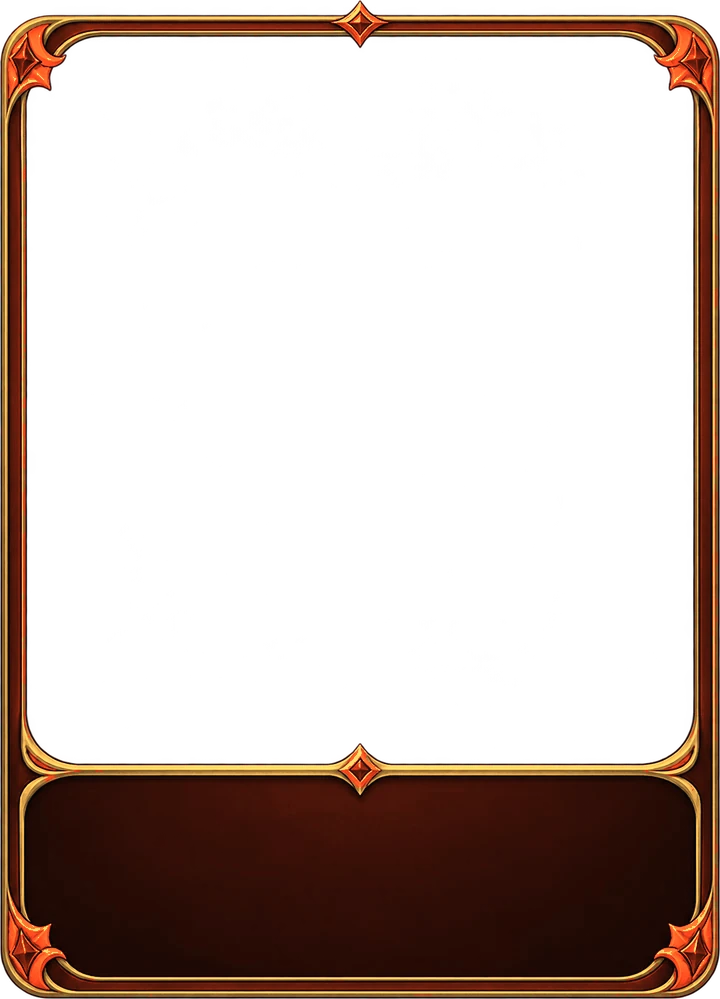
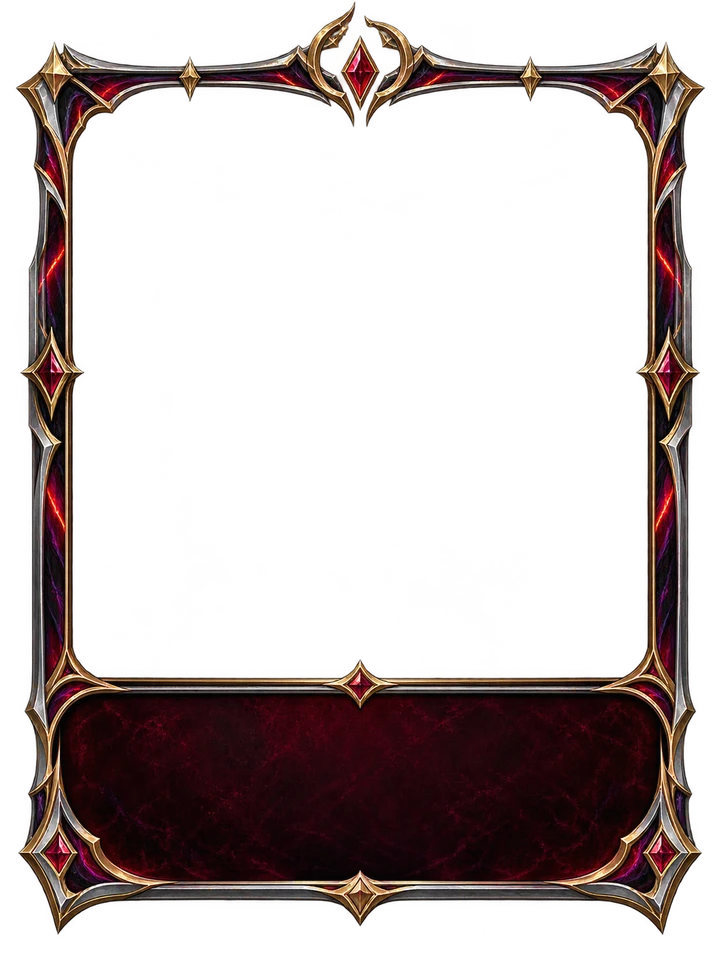
Kánon esemény: saját keret, kristály-villanás és körbefutó fény a bevonuláskor (még rejtve)
Claude-Session: https://claude.ai/code/session_01W9zq3wf11nj4Y1bRb5YWnf

diff --git a/site/index.html b/site/index.html
@@ -1399,8 +1399,26 @@ html{-webkit-text-size-adjust:100%;text-size-adjust:100%;}
 /* Kánon esemény lapok: saját izzó vörös-arany keret, lüktető fény, vörös energiakő */
 .t-action.kanon{--frame:url('art/ui/sm/frame-kanon.webp');}
 .big.t-action.kanon{--frame:url('art/ui/frame-kanon.webp');}
-.card.kanon{box-shadow:0 0 .45em rgba(255,90,30,.7),0 .3em .8em rgba(0,0,0,.5);animation:kanonGlow 2.6s ease-in-out infinite;}
-@keyframes kanonGlow{50%{box-shadow:0 0 1em rgba(255,110,40,.95),0 0 .25em rgba(255,214,130,.9),0 .3em .8em rgba(0,0,0,.5);}}
+/* saját keret (a díszek kilógnak, ezért alakkövető fény, nem doboz-árnyék) */
+.card.framed.kanon{box-shadow:none;background:none;filter:drop-shadow(0 0 .28em rgba(255,30,70,.55)) drop-shadow(0 .2em .35em rgba(0,0,0,.6));}
+.card.framed.big.kanon{animation:kanonGlow 2.8s ease-in-out infinite;}
+@keyframes kanonGlow{50%{filter:drop-shadow(0 0 .6em rgba(255,40,80,.85)) drop-shadow(0 .2em .35em rgba(0,0,0,.6));}}
+.card.framed.kanon .art{left:10.5%;right:10.5%;top:11.6%;height:57.3%;border-radius:calc(var(--cw)*.015);}
+.card.framed.kanon .name{left:12%;right:12%;top:73.2%;height:21.5%;}
+.card.framed.big.kanon .name{top:auto;bottom:31.2%;height:auto;left:10.5%;right:10.5%;}
+.card.framed.big.kanon .txt{font-size:.37em;}
+.card.framed.big.kanon.tl-l .txt{font-size:.33em;}
+.card.framed.big.kanon .ctype{left:10.5%;right:10.5%;top:11.6%;}
+.card.framed.big.kanon .txt{left:11.5%;right:11.5%;top:73.6%;height:20%;}
+.card.framed .kanon-ribbon{display:none;}   /* a keret maga jelzi a típust; a szalag csak a Full Art változaton marad */
+.card.foil.kanon{box-shadow:0 0 .45em rgba(255,40,70,.7),0 .3em .8em rgba(0,0,0,.5);}
+/* kijátszáskor: felvillan a felső kristály, majd vörös fény fut végig a kereten */
+.kanon-crystal{position:absolute;z-index:9;left:50%;top:6.4%;width:20%;aspect-ratio:1;transform:translate(-50%,-50%);border-radius:50%;opacity:0;pointer-events:none;
+  background:radial-gradient(circle,#fff 0 9%,rgba(255,90,110,.95) 28%,rgba(255,0,50,0) 68%);mix-blend-mode:screen;}
+.kanon-run{position:absolute;inset:0;z-index:8;overflow:hidden;pointer-events:none;opacity:0;mix-blend-mode:screen;
+  -webkit-mask:url('art/ui/frame-kanon-edge.webp') center/100% 100% no-repeat;mask:url('art/ui/frame-kanon-edge.webp') center/100% 100% no-repeat;}
+.kanon-run i{position:absolute;left:50%;top:50%;width:190%;aspect-ratio:1;transform:translate(-50%,-50%);
+  background:conic-gradient(from 0deg,rgba(255,0,40,0) 0 66%,rgba(255,40,60,.85) 82%,#fff 87%,rgba(255,60,70,.9) 91%,rgba(255,0,40,0) 100%);}
 .card.kanon .cost{filter:hue-rotate(150deg) saturate(1.5) brightness(1.08);}
 .card.kanon .name{color:#ffe2a8;text-shadow:0 0 .45em rgba(255,100,30,.95),0 1px 0 #000;}
 .card.kanon .txt{color:#ffeccc;}
@@ -1413,12 +1431,13 @@ html{-webkit-text-size-adjust:100%;text-size-adjust:100%;}
 .card:not(.big) .kanon-ribbon{left:58%;font-size:.5em;top:-.45em;} .card:not(.big) .kanon-ribbon b{display:none;} .card:not(.big) .kanon-ribbon span{display:inline;}
 .card.foil .kanon-ribbon,.card.foil:not(.big) .kanon-ribbon{top:.5em;z-index:8;}
 @media (prefers-reduced-motion:reduce){.card.kanon{animation:none!important;}}
-.kanon-hero{position:absolute;z-index:6;right:5.5%;top:6.5%;width:24%;aspect-ratio:1;border-radius:50%;background:hsl(var(--h) 45% 32%) center/cover no-repeat;
+.kanon-hero{position:absolute;z-index:6;right:12.5%;top:13.5%;width:22%;aspect-ratio:1;border-radius:50%;background:hsl(var(--h) 45% 32%) center/cover no-repeat;
   display:grid;place-items:center;font-style:normal;font-weight:900;color:#fff;font-size:.5em;
   box-shadow:0 0 0 .09em #ffd27a,0 0 0 .17em #7a1405,0 0 .55em .1em rgba(255,90,30,.85),0 .15em .35em rgba(0,0,0,.7);}
-.card:not(.big) .kanon-hero{width:30%;}
-.card.big .kanon-hero{width:22%;right:6%;top:7%;}
-.card.foil .kanon-hero{top:5%;right:5%;}
+.card:not(.big) .kanon-hero{width:28%;}
+.card.foil .kanon-hero{right:5%;top:5%;}
+.card.big .kanon-hero{width:19%;right:12.5%;top:13.5%;}
+
 .card.kanon .ctype-below{color:#ff8a4c;}
 .card:not(.big) .kanon-ribbon{left:50%;}
 .var-ribbon{position:absolute;z-index:7;left:50%;top:-.55em;transform:translateX(-50%);white-space:nowrap;font-style:normal;font-family:var(--body);font-weight:900;
@@ -1603,7 +1622,7 @@ html{-webkit-text-size-adjust:100%;text-size-adjust:100%;}
 <script src="vendor/firebase-auth-compat.js"></script>
 <script src="vendor/firebase-firestore-compat.js"></script>
 <script src="vendor/firebase-database-compat.js"></script>
-<script>window.APP_VERSION = "2026.10.02-1224";</script>
+<script>window.APP_VERSION = "2026.10.02-2042";</script>
 <script>// ===== Best of Us – saját szerver (Firebase) =====
 // A játék eredetileg a Claude-os tárolót használta (window.claude.use('db' | 'user' | 'room')).
 // Ez a fájl ugyanazt a felületet adja Firebase-ből, így a játék kódja szinte változatlan maradhat:
@@ -3138,12 +3157,22 @@ async function finisherIntro(e) {
                       { transform: 'translate(-50%,-50%) scale(1) rotate(0deg)', opacity: 1, filter: 'brightness(1)' }], { duration: 650, easing: 'cubic-bezier(.3,.9,.3,1)', fill: 'forwards' }).finished;
   fx($('#app'), 'fx-quake');
   flash.animate([{ opacity: .85 }, { opacity: 0 }], { duration: 420, easing: 'ease-out', fill: 'forwards' });
+  // a keret „életre kel”: felvillan a felső kristály, aztán vörös fény fut végig a kereten
+  const ce = card.querySelector('.card');
+  if (ce && ce.classList.contains('framed')) {
+    ce.insertAdjacentHTML('beforeend', '<i class="kanon-crystal"></i><i class="kanon-run"><i></i></i>');
+    const cr = ce.querySelector('.kanon-crystal'), run = ce.querySelector('.kanon-run');
+    cr.animate([{ opacity: 0, transform: 'translate(-50%,-50%) scale(.4)' }, { opacity: 1, transform: 'translate(-50%,-50%) scale(1.6)', offset: .35 }, { opacity: 0, transform: 'translate(-50%,-50%) scale(2.2)' }],
+               { duration: 650, delay: 120, easing: 'ease-out', fill: 'forwards' });
+    run.animate([{ opacity: 0 }, { opacity: 1, offset: .12 }, { opacity: 1, offset: .85 }, { opacity: 0 }], { duration: 1500, delay: 420, fill: 'forwards' });
+    run.firstElementChild.animate([{ transform: 'translate(-50%,-50%) rotate(0deg)' }, { transform: 'translate(-50%,-50%) rotate(360deg)' }], { duration: 1500, delay: 420, easing: 'cubic-bezier(.4,.1,.6,.9)', fill: 'forwards' });
+  }
   title.animate([{ opacity: 0, transform: 'translate(-50%,0) scale(1.7)', letterSpacing: '.5em' }, { opacity: 1, transform: 'translate(-50%,0) scale(1)', letterSpacing: '.02em' }],
                 { duration: 520, easing: 'cubic-bezier(.2,1.3,.4,1)', fill: 'forwards' });
   card.animate([{ filter: 'brightness(1) drop-shadow(0 0 0 rgba(255,80,40,0))' }, { filter: 'brightness(1.25) drop-shadow(0 0 28px rgba(255,80,40,.9))' }, { filter: 'brightness(1) drop-shadow(0 0 0 rgba(255,80,40,0))' }],
                { duration: 1100, iterations: 2, easing: 'ease-in-out' });
   const t0 = performance.now();
-  await Promise.race([sleep(2000), new Promise(r => o.addEventListener('pointerdown', () => { if (performance.now() - t0 > 500) r(); }))]);
+  await Promise.race([sleep(2300), new Promise(r => o.addEventListener('pointerdown', () => { if (performance.now() - t0 > 500) r(); }))]);
   card.animate([{ opacity: 1, transform: 'translate(-50%,-50%) scale(1)', filter: 'brightness(1)' }, { opacity: 0, transform: 'translate(-50%,-50%) scale(1.25)', filter: 'brightness(3)' }], { duration: 380, easing: 'ease-in', fill: 'forwards' });
   await o.animate([{ opacity: 1 }, { opacity: 0 }], { duration: 460, delay: 140, fill: 'forwards' }).finished;
   o.remove();

diff --git a/src/shell.html b/src/shell.html
@@ -1384,8 +1384,26 @@ html{-webkit-text-size-adjust:100%;text-size-adjust:100%;}
 /* Kánon esemény lapok: saját izzó vörös-arany keret, lüktető fény, vörös energiakő */
 .t-action.kanon{--frame:url('art/ui/sm/frame-kanon.webp');}
 .big.t-action.kanon{--frame:url('art/ui/frame-kanon.webp');}
-.card.kanon{box-shadow:0 0 .45em rgba(255,90,30,.7),0 .3em .8em rgba(0,0,0,.5);animation:kanonGlow 2.6s ease-in-out infinite;}
-@keyframes kanonGlow{50%{box-shadow:0 0 1em rgba(255,110,40,.95),0 0 .25em rgba(255,214,130,.9),0 .3em .8em rgba(0,0,0,.5);}}
+/* saját keret (a díszek kilógnak, ezért alakkövető fény, nem doboz-árnyék) */
+.card.framed.kanon{box-shadow:none;background:none;filter:drop-shadow(0 0 .28em rgba(255,30,70,.55)) drop-shadow(0 .2em .35em rgba(0,0,0,.6));}
+.card.framed.big.kanon{animation:kanonGlow 2.8s ease-in-out infinite;}
+@keyframes kanonGlow{50%{filter:drop-shadow(0 0 .6em rgba(255,40,80,.85)) drop-shadow(0 .2em .35em rgba(0,0,0,.6));}}
+.card.framed.kanon .art{left:10.5%;right:10.5%;top:11.6%;height:57.3%;border-radius:calc(var(--cw)*.015);}
+.card.framed.kanon .name{left:12%;right:12%;top:73.2%;height:21.5%;}
+.card.framed.big.kanon .name{top:auto;bottom:31.2%;height:auto;left:10.5%;right:10.5%;}
+.card.framed.big.kanon .txt{font-size:.37em;}
+.card.framed.big.kanon.tl-l .txt{font-size:.33em;}
+.card.framed.big.kanon .ctype{left:10.5%;right:10.5%;top:11.6%;}
+.card.framed.big.kanon .txt{left:11.5%;right:11.5%;top:73.6%;height:20%;}
+.card.framed .kanon-ribbon{display:none;}   /* a keret maga jelzi a típust; a szalag csak a Full Art változaton marad */
+.card.foil.kanon{box-shadow:0 0 .45em rgba(255,40,70,.7),0 .3em .8em rgba(0,0,0,.5);}
+/* kijátszáskor: felvillan a felső kristály, majd vörös fény fut végig a kereten */
+.kanon-crystal{position:absolute;z-index:9;left:50%;top:6.4%;width:20%;aspect-ratio:1;transform:translate(-50%,-50%);border-radius:50%;opacity:0;pointer-events:none;
+  background:radial-gradient(circle,#fff 0 9%,rgba(255,90,110,.95) 28%,rgba(255,0,50,0) 68%);mix-blend-mode:screen;}
+.kanon-run{position:absolute;inset:0;z-index:8;overflow:hidden;pointer-events:none;opacity:0;mix-blend-mode:screen;
+  -webkit-mask:url('art/ui/frame-kanon-edge.webp') center/100% 100% no-repeat;mask:url('art/ui/frame-kanon-edge.webp') center/100% 100% no-repeat;}
+.kanon-run i{position:absolute;left:50%;top:50%;width:190%;aspect-ratio:1;transform:translate(-50%,-50%);
+  background:conic-gradient(from 0deg,rgba(255,0,40,0) 0 66%,rgba(255,40,60,.85) 82%,#fff 87%,rgba(255,60,70,.9) 91%,rgba(255,0,40,0) 100%);}
 .card.kanon .cost{filter:hue-rotate(150deg) saturate(1.5) brightness(1.08);}
 .card.kanon .name{color:#ffe2a8;text-shadow:0 0 .45em rgba(255,100,30,.95),0 1px 0 #000;}
 .card.kanon .txt{color:#ffeccc;}
@@ -1398,12 +1416,13 @@ html{-webkit-text-size-adjust:100%;text-size-adjust:100%;}
 .card:not(.big) .kanon-ribbon{left:58%;font-size:.5em;top:-.45em;} .card:not(.big) .kanon-ribbon b{display:none;} .card:not(.big) .kanon-ribbon span{display:inline;}
 .card.foil .kanon-ribbon,.card.foil:not(.big) .kanon-ribbon{top:.5em;z-index:8;}
 @media (prefers-reduced-motion:reduce){.card.kanon{animation:none!important;}}
-.kanon-hero{position:absolute;z-index:6;right:5.5%;top:6.5%;width:24%;aspect-ratio:1;border-radius:50%;background:hsl(var(--h) 45% 32%) center/cover no-repeat;
+.kanon-hero{position:absolute;z-index:6;right:12.5%;top:13.5%;width:22%;aspect-ratio:1;border-radius:50%;background:hsl(var(--h) 45% 32%) center/cover no-repeat;
   display:grid;place-items:center;font-style:normal;font-weight:900;color:#fff;font-size:.5em;
   box-shadow:0 0 0 .09em #ffd27a,0 0 0 .17em #7a1405,0 0 .55em .1em rgba(255,90,30,.85),0 .15em .35em rgba(0,0,0,.7);}
-.card:not(.big) .kanon-hero{width:30%;}
-.card.big .kanon-hero{width:22%;right:6%;top:7%;}
-.card.foil .kanon-hero{top:5%;right:5%;}
+.card:not(.big) .kanon-hero{width:28%;}
+.card.foil .kanon-hero{right:5%;top:5%;}
+.card.big .kanon-hero{width:19%;right:12.5%;top:13.5%;}
+
 .card.kanon .ctype-below{color:#ff8a4c;}
 .card:not(.big) .kanon-ribbon{left:50%;}
 .var-ribbon{position:absolute;z-index:7;left:50%;top:-.55em;transform:translateX(-50%);white-space:nowrap;font-style:normal;font-family:var(--body);font-weight:900;

diff --git a/src/ui.js b/src/ui.js
@@ -534,12 +534,22 @@ async function finisherIntro(e) {
                       { transform: 'translate(-50%,-50%) scale(1) rotate(0deg)', opacity: 1, filter: 'brightness(1)' }], { duration: 650, easing: 'cubic-bezier(.3,.9,.3,1)', fill: 'forwards' }).finished;
   fx($('#app'), 'fx-quake');
   flash.animate([{ opacity: .85 }, { opacity: 0 }], { duration: 420, easing: 'ease-out', fill: 'forwards' });
+  // a keret „életre kel”: felvillan a felső kristály, aztán vörös fény fut végig a kereten
+  const ce = card.querySelector('.card');
+  if (ce && ce.classList.contains('framed')) {
+    ce.insertAdjacentHTML('beforeend', '<i class="kanon-crystal"></i><i class="kanon-run"><i></i></i>');
+    const cr = ce.querySelector('.kanon-crystal'), run = ce.querySelector('.kanon-run');
+    cr.animate([{ opacity: 0, transform: 'translate(-50%,-50%) scale(.4)' }, { opacity: 1, transform: 'translate(-50%,-50%) scale(1.6)', offset: .35 }, { opacity: 0, transform: 'translate(-50%,-50%) scale(2.2)' }],
+               { duration: 650, delay: 120, easing: 'ease-out', fill: 'forwards' });
+    run.animate([{ opacity: 0 }, { opacity: 1, offset: .12 }, { opacity: 1, offset: .85 }, { opacity: 0 }], { duration: 1500, delay: 420, fill: 'forwards' });
+    run.firstElementChild.animate([{ transform: 'translate(-50%,-50%) rotate(0deg)' }, { transform: 'translate(-50%,-50%) rotate(360deg)' }], { duration: 1500, delay: 420, easing: 'cubic-bezier(.4,.1,.6,.9)', fill: 'forwards' });
+  }
   title.animate([{ opacity: 0, transform: 'translate(-50%,0) scale(1.7)', letterSpacing: '.5em' }, { opacity: 1, transform: 'translate(-50%,0) scale(1)', letterSpacing: '.02em' }],
                 { duration: 520, easing: 'cubic-bezier(.2,1.3,.4,1)', fill: 'forwards' });
   card.animate([{ filter: 'brightness(1) drop-shadow(0 0 0 rgba(255,80,40,0))' }, { filter: 'brightness(1.25) drop-shadow(0 0 28px rgba(255,80,40,.9))' }, { filter: 'brightness(1) drop-shadow(0 0 0 rgba(255,80,40,0))' }],
                { duration: 1100, iterations: 2, easing: 'ease-in-out' });
   const t0 = performance.now();
-  await Promise.race([sleep(2000), new Promise(r => o.addEventListener('pointerdown', () => { if (performance.now() - t0 > 500) r(); }))]);
+  await Promise.race([sleep(2300), new Promise(r => o.addEventListener('pointerdown', () => { if (performance.now() - t0 > 500) r(); }))]);
   card.animate([{ opacity: 1, transform: 'translate(-50%,-50%) scale(1)', filter: 'brightness(1)' }, { opacity: 0, transform: 'translate(-50%,-50%) scale(1.25)', filter: 'brightness(3)' }], { duration: 380, easing: 'ease-in', fill: 'forwards' });
   await o.animate([{ opacity: 1 }, { opacity: 0 }], { duration: 460, delay: 140, fill: 'forwards' }).finished;
   o.remove();

diff --git a/site/sw.js b/site/sw.js
@@ -1,8 +1,8 @@
 // Best of Us – service worker
 // A képek (art/) és a Firebase-könyvtárak a telefonon maradnak (gyors indulás, kevesebb adatforgalom);
 // a játék maga (index.html, version.json) mindig a netről jön, ha van net – így a frissítés azonnal megérkezik.
-const V = '2026.10.02-1224';
-const ASSETS = 'bou-assets-6bc34f2068', PAGES = 'bou-pages-' + V;
+const V = '2026.10.02-2042';
+const ASSETS = 'bou-assets-99dab8a84c', PAGES = 'bou-pages-' + V;
 self.addEventListener('install', e => { self.skipWaiting(); });
 self.addEventListener('activate', e => {
   e.waitUntil((async () => {

diff --git a/src/doc.md b/src/doc.md
@@ -134,7 +134,7 @@ Hősképesség-ötletek a táblázatban (még nem zöldek, nincsenek beépítve)
 - **⚔ Kánon esemény lapok (2026-10-01, INAKTÍV – grafikára várnak; korábbi munkanév: „kivégző”):** ultra erős legendás finisherek, hősönként egy; csak az adott hős paklijába tehetők (a pakliépítő csak a saját hős kánon eseményét kínálja, és a pakli nem játszható, ha más hősé van benne; meccsen is csak a saját hőse játszhatja ki). Mind 6 energia, akció, legendás (1 db/pakli). Amíg nincs grafikájuk (`off:true`), sehol nem látszanak: nincs a packokban, gyűjteményben, pakliépítőben, kezdőcsomagban. Aktiválás: grafika (ART) + az `off` kivétele.
   - Kijátszáskor saját bevonulás: elsötétül a pálya, forgó fénysugarak, a lap elmosódva becsapódik középre (rázkódás + fehér villanás), „KÁNON ESEMÉNY” / „AZ ELLENFÉL KÁNON ESEMÉNYE” felirat, a lap típusa is „Kánon esemény”, a lap neve és a hős neve (Gluténbombánál a választott lehetőség); 2 mp után (koppintásra hamarabb) a lap felvillan és eltűnik, majd jönnek a hatások. Az ellenfél kánon eseményénél is ez fut a sima „kijátszotta” helyett.
   - **Élesítés: csak egyszerre, amikor mind a 9 lap grafikája megvan** (a felhasználó kérése, 2026-10-01). Grafika kész: Bender, Együtt sírtok, együtt nevettek (a képek bent vannak, de a lapok rejtve maradnak). Ha valakinek a rövid élesben lévő idő alatt (kb. 10 perc) mégis jött volna egy, az a gyűjteményében megmarad, de amíg rejtett, a pakliban „még nem elérhető” jelzést kap. Az idézett lapok (Árnyékember, Gyerek Zana, Gyerek Gabi, JBL hangfal, Cápa, Munkahely) és Baszó képe opcionális, addig betűs helykitöltő.
-  - **Kinézet:** saját izzó vörös-arany keret (a sima akció-keret átszínezve), lüktető narancs fény körülötte, vörös energiakő, aranyszínű név és szöveg, belső vörös izzás a képen, felül „🔥 Kánon esemény” szalag (kicsiben „Kánon”), a jobb felső sarokban kerek portré arról a hősről, aki használhatja (arany-vörös gyűrűvel). A lap típusa „Kánon esemény”; a súgóban külön sor magyarázza.
+  - **Kinézet (2026-10-02, saját keret a csapattól):** külön Kánon-keret – ezüst–arany szegély kristálydíszekkel, sötét betétek bíbor fényerekkel, felül megtört glória kristállyal; a díszek kilógnak, így a lap körvonala is elárulja a típust (kis harctéri méretben is). A kép és a szöveg a keret ablakához igazítva; alakkövető vörös izzás (nagyban lüktet); vörös energiakő; aranyszínű név; jobb felső sarokban kerek portré a hősről, aki használhatja. A sima keretes lapon nincs szalag (a keret jelzi), a Full Art változaton „🔥 Kánon esemény” szalag. Kijátszáskor (a csapat leírása szerint): elsötétül a háttér → a felső kristály felvillan → vörös fény fut végig a kereten (a keret alakjára maszkolva), majd a „KÁNON ESEMÉNY” felirat.
   - **Bence – Bender:** minden szabad helyére egy Árnyékember kerül (alap 1/1); minden hiányzó hely után mindegyik +1/+1 (4 hely: négy 1/1, 3: három 2/2, 2: két 3/3, 1: egy 4/4). Árnyékember nem gyűjthető.
   - **Gabi – Együtt sírtok, együtt nevettek:** Gyerek Zana (5/5, Lendület – már a kijátszás körében támad) és Gyerek Gabi (5/5, Izom – a felesleges sebzés átüt a hősre) a bal oldali szabad helyekre; ha csak 1 hely van, véletlenül az egyik. Nem gyűjthetők.
   - **Laci – JBL:** a JBL hangfalat (0/6, nem támad) a választott saját helyre rakod. Amíg él: az ellenfél két szélső helye zárva (szürke, csíkos, 🔊), és legfeljebb 2 karaktere lehet (nem rakhat le újat, ha már 2 van; PP Queryje, Alekosz lopása, Zsibrita és a Haverom is betartja). Kijátszáskor, ha az ellenfélnek 2-nél több karaktere van, a szélső helyeken állók elpusztulnak (kék 🔊 lövedék + „Kifújta a basszus!”); ha ≤2, senki nem hal meg, de a zárás él. A hangfal halála után minden hely újra nyitva.
